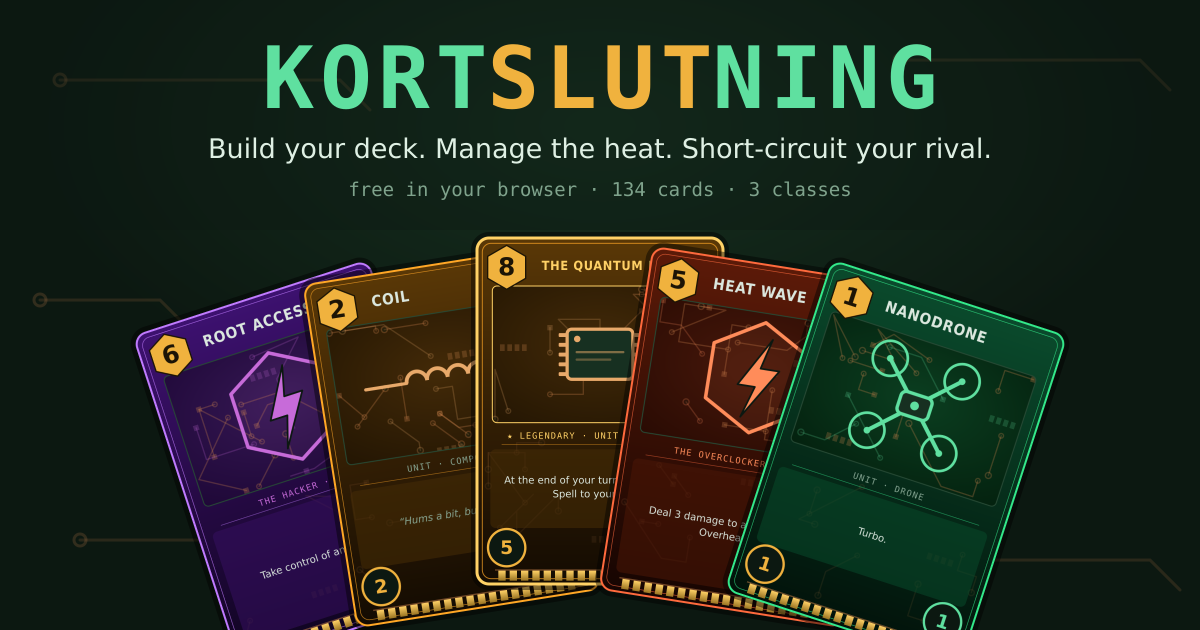
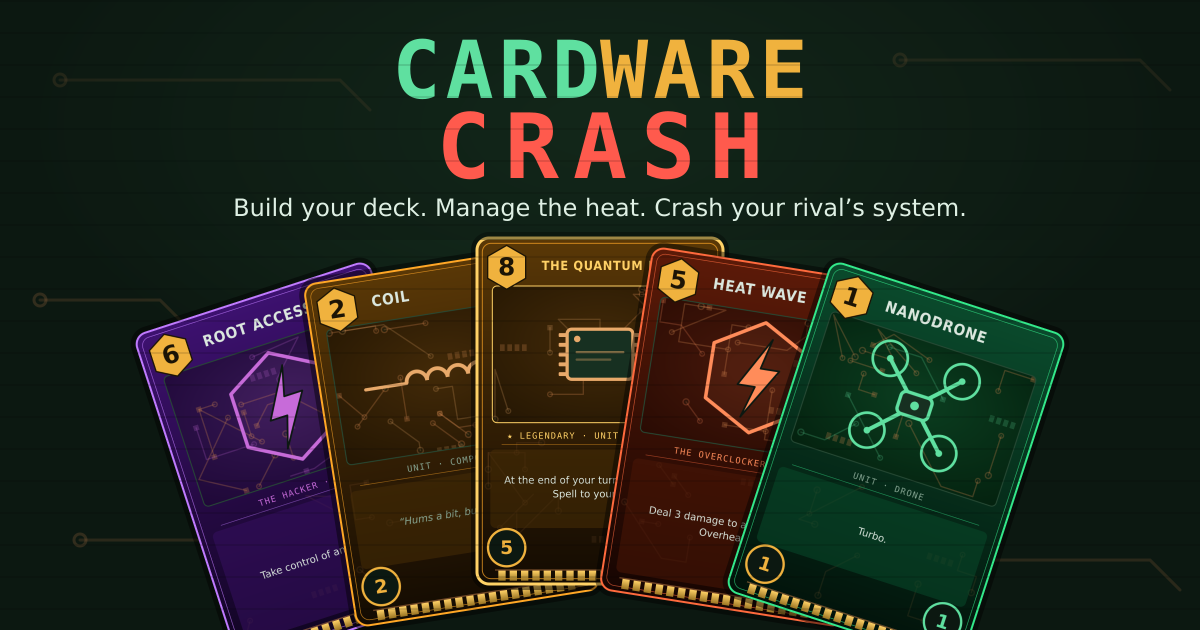
Rebrand til Cardware Crash + juicier splash screen
- Nyt navn overalt: landing, menu, loader, kamplog, OG-billede, titel/meta
- Hero-titel: CARDWARE (grøn/rav) over CRASH (rød) med RGB-glitch-kopier,
  flicker og redline-tema
- Splash-effekter: rullende scanlines + lys-sweep, løbende farvede gnister der
  spawner over hero, gnistregn når man rører titlen
- Alt slås fra ved prefers-reduced-motion
- OG-billede opdateret med ny titel og scanlines

Changed region(s): [[0.1542, 0.0603, 0.8325, 0.3921]]

diff --git a/docs/index.html b/docs/index.html
@@ -3,9 +3,9 @@
 <head>
 <meta charset="utf-8">
 <meta name="viewport" content="width=device-width, initial-scale=1, viewport-fit=cover">
-<title>⚡ KORTSLUTNING — electronics card game</title>
+<title>⚡ CARDWARE CRASH — electronics card game</title>
 <meta name="description" content="A free 2-player electronics deckbuilder. 134 cards, 3 classes, capacitor banks and overheat. Play in your browser — no install.">
-<meta property="og:title" content="KORTSLUTNING — electronics card game">
+<meta property="og:title" content="CARDWARE CRASH — electronics card game">
 <meta property="og:description" content="Build your deck. Manage the heat. Short-circuit your rival. Free in your browser.">
 <meta property="og:image" content="og.png">
 <meta property="og:type" content="website">
@@ -40,13 +40,38 @@ html,body{margin:0;height:100%;background:var(--bg0)}
 .heroind{position:relative;z-index:2;max-width:640px}
 .heroind::before{content:"";position:absolute;inset:-60px -80px;z-index:-1;
   background:radial-gradient(closest-side,rgba(12,24,17,.88),rgba(12,24,17,.45) 62%,transparent);border-radius:50%}
-.biglogo{font-family:var(--mono);font-weight:700;letter-spacing:.06em;color:var(--fos);
-  font-size:clamp(34px,9vw,74px);margin:0;line-height:1.05;
-  text-shadow:0 0 26px rgba(95,224,160,.5);animation:logoglow 4s ease-in-out infinite}
-.biglogo b{color:var(--amber);font-weight:700;text-shadow:0 0 26px rgba(240,178,62,.55)}
-@keyframes logoglow{0%,100%{opacity:1}6%{opacity:.55}9%{opacity:1}12%{opacity:.75}15%{opacity:1}
-  55%{text-shadow:0 0 40px rgba(95,224,160,.75)}}
-.pun{font-family:var(--mono);color:var(--dim);font-size:12.5px;margin:8px 0 0}
+.biglogo{font-family:var(--mono);font-weight:700;letter-spacing:.04em;margin:0;line-height:.94;
+  position:relative;display:flex;flex-direction:column;align-items:center;gap:2px}
+.biglogo .ln1,.biglogo .ln2{display:block;font-size:clamp(40px,11vw,92px);color:var(--fos);
+  text-shadow:0 0 22px rgba(95,224,160,.55),0 0 42px rgba(95,224,160,.25)}
+.biglogo .ln1 b{color:var(--amber);text-shadow:0 0 22px rgba(240,178,62,.6),0 0 42px rgba(240,178,62,.3)}
+.biglogo .ln2{color:#ff5a4d;text-shadow:0 0 22px rgba(255,90,77,.6),0 0 46px rgba(255,90,77,.35);
+  letter-spacing:.14em;font-size:clamp(46px,13vw,104px)}
+.biglogo{animation:logoflick 5s steps(1) infinite}
+@keyframes logoflick{0%,100%{opacity:1}2%{opacity:.6}2.5%{opacity:1}52%{opacity:1}52.4%{opacity:.4}52.9%{opacity:1}53.3%{opacity:.7}53.7%{opacity:1}}
+/* glitch: to farvede kopier der forskyder sig */
+.biglogo.glitch::before,.biglogo.glitch::after{content:attr(data-txt);position:absolute;inset:0;
+  display:flex;align-items:center;justify-content:center;font-size:clamp(40px,11vw,92px);
+  letter-spacing:.04em;opacity:.55;pointer-events:none;mix-blend-mode:screen}
+.biglogo.glitch::before{color:#26e0ff;animation:glx1 3.6s infinite steps(1)}
+.biglogo.glitch::after{color:#ff3bd0;animation:glx2 4.3s infinite steps(1)}
+@keyframes glx1{0%,100%{transform:translate(0,0);opacity:0}48%{opacity:0}49%{transform:translate(-3px,2px);opacity:.5}50%{transform:translate(3px,-1px)}51%{transform:translate(0,0);opacity:0}}
+@keyframes glx2{0%,100%{transform:translate(0,0);opacity:0}70%{opacity:0}71%{transform:translate(3px,-2px);opacity:.5}72%{transform:translate(-2px,2px)}73%{transform:translate(0,0);opacity:0}}
+/* scanlines over hele hero */
+.scanlines{position:absolute;inset:0;pointer-events:none;z-index:3;mix-blend-mode:overlay;opacity:.5;
+  background:repeating-linear-gradient(0deg,rgba(0,0,0,.32) 0 1px,transparent 1px 3px);
+  animation:scanroll 8s linear infinite}
+@keyframes scanroll{to{background-position:0 12px}}
+.scanlines::after{content:"";position:absolute;left:0;right:0;height:120px;
+  background:linear-gradient(180deg,transparent,rgba(95,224,160,.12),transparent);
+  animation:sweep 6s ease-in-out infinite}
+@keyframes sweep{0%{top:-120px}100%{top:100%}}
+/* gnister/sparks-lag (JS-genereret) */
+.sparklayer{position:absolute;inset:0;z-index:2;pointer-events:none;overflow:hidden}
+.spark{position:absolute;width:3px;height:3px;border-radius:50%;background:var(--fos);
+  box-shadow:0 0 8px 2px var(--fos);animation:sparkfly linear forwards}
+@keyframes sparkfly{0%{transform:translate(0,0) scale(1);opacity:1}100%{transform:translate(var(--sdx),var(--sdy)) scale(0);opacity:0}}
+.pun{font-family:var(--mono);color:var(--dim);font-size:12.5px;margin:14px 0 0}
 .tag{font-size:clamp(16px,3.4vw,21px);color:#eaf6ee;margin:18px 0 6px;font-weight:600}
 .sub{font-family:var(--mono);color:var(--dim);font-size:13px;margin-bottom:26px}
 .playbtn{display:inline-block;font-family:var(--mono);font-weight:700;font-size:clamp(18px,4vw,24px);
@@ -88,6 +113,8 @@ footer{padding:30px 20px 46px;text-align:center;color:var(--dim);font-size:12.5p
 @media (prefers-reduced-motion:reduce){
   .flyv{animation:none;opacity:.85;transform:translate3d(var(--sx,0px),var(--sy,0px),0) rotateZ(var(--rz,0deg)) scale(.9)}
   .biglogo,.playbtn,.scrollhint{animation:none}
+  .biglogo.glitch::before,.biglogo.glitch::after{display:none}
+  .scanlines,.sparklayer{display:none}
   #landing{transition:none}
 }
 @media (max-width:520px){ .flyv{width:82px;margin-left:-41px} .fan img{width:118px;margin:0 -28px} }
@@ -109,13 +136,17 @@ footer{padding:30px 20px 46px;text-align:center;color:var(--dim);font-size:12.5p
       <img class="flyv" src="cards/u_datamide.svg" alt="" loading="lazy" style="--tx:20vw;--ty:-48vh;--rz:14deg;--du:5.4s;--dl:4.05s;--sx:12vw;--sy:-17vh">
       <img class="flyv" src="cards/l_moderkort.svg" alt="" loading="lazy" style="--tx:53vw;--ty:-39vh;--rz:-12deg;--du:5.9s;--dl:4.50s;--sx:24vw;--sy:-11vh">
       <img class="flyv" src="cards/n_mainframe.svg" alt="" loading="lazy" style="--tx:79vw;--ty:-16vh;--rz:-5deg;--du:6.4s;--dl:4.95s;--sx:30vw;--sy:-2vh"></div>
+    <div class="sparklayer" id="sparklayer"></div>
     <div class="heroind">
-      <h1 class="biglogo">KORT<b>SLUT</b>NING</h1>
-      <p class="pun">// danish for "short circuit" — and a pun on "kort" (card)</p>
-      <p class="tag">Build your deck. Manage the heat. Short-circuit your rival.</p>
+      <h1 class="biglogo glitch" data-txt="CARDWARE CRASH">
+        <span class="ln1">CARD<b>WARE</b></span><span class="ln2">CRASH</span>
+      </h1>
+      <p class="pun">// where your deck meets the redline</p>
+      <p class="tag">Build your deck. Manage the heat. Crash your rival's system.</p>
       <p class="sub">Free in your browser · 134 cards · 3 classes · no install</p>
       <button class="playbtn" onclick="startSpil()">⚡ PLAY NOW</button>
     </div>
+    <div class="scanlines"></div>
     <div class="scrollhint">▼</div>
   </div>
   <section>
@@ -162,7 +193,7 @@ footer{padding:30px 20px 46px;text-align:center;color:var(--dim);font-size:12.5p
       online multiplayer lives in the Claude artifact edition
     </div>
   </section>
-  <footer>KORTSLUTNING · solo vs bot · local 2-player · interactive tutorial · works offline-ish once loaded</footer>
+  <footer>CARDWARE CRASH · solo vs bot · local 2-player · interactive tutorial · works offline-ish once loaded</footer>
 </div>
 <script>
 (function(){
@@ -175,6 +206,36 @@ footer{padding:30px 20px 46px;text-align:center;color:var(--dim);font-size:12.5p
     setTimeout(function(){ l.remove(); },650);
     try{ history.replaceState(null,'','?play'); }catch(e){}
   };
+  var reduce = window.matchMedia && window.matchMedia('(prefers-reduced-motion: reduce)').matches;
+  var layer = document.getElementById('sparklayer');
+  var cols = ['#5fe0a0','#f0b23e','#26e0ff','#ff5a4d'];
+  function burst(x,y,n){
+    if(!layer) return;
+    for(var i=0;i<n;i++){
+      var s=document.createElement('i'); s.className='spark';
+      var a=Math.random()*Math.PI*2, d=20+Math.random()*70;
+      var c=cols[(Math.random()*cols.length)|0];
+      s.style.left=x+'px'; s.style.top=y+'px';
+      s.style.background=c; s.style.boxShadow='0 0 8px 2px '+c;
+      s.style.setProperty('--sdx',(Math.cos(a)*d).toFixed(0)+'px');
+      s.style.setProperty('--sdy',(Math.sin(a)*d).toFixed(0)+'px');
+      s.style.animationDuration=(0.5+Math.random()*0.5).toFixed(2)+'s';
+      layer.appendChild(s);
+      setTimeout((function(el){return function(){el.remove();};})(s),1000);
+    }
+  }
+  if(!reduce && layer){
+    setInterval(function(){
+      if(document.hidden || l.classList.contains('bye')) return;
+      var r=layer.getBoundingClientRect();
+      burst(Math.random()*r.width, r.height*(0.15+Math.random()*0.5), 3+((Math.random()*4)|0));
+    },520);
+    var logo=document.querySelector('.biglogo');
+    if(logo) logo.addEventListener('pointerenter',function(e){
+      var r=layer.getBoundingClientRect();
+      burst(e.clientX-r.left, e.clientY-r.top, 14);
+    });
+  }
 })();
 </script>
 <script src="storage-shim.js"></script>

diff --git a/web/index.html b/web/index.html
@@ -3,9 +3,9 @@
 <head>
 <meta charset="utf-8">
 <meta name="viewport" content="width=device-width, initial-scale=1, viewport-fit=cover">
-<title>⚡ KORTSLUTNING — electronics card game</title>
+<title>⚡ CARDWARE CRASH — electronics card game</title>
 <meta name="description" content="A free 2-player electronics deckbuilder. 134 cards, 3 classes, capacitor banks and overheat. Play in your browser — no install.">
-<meta property="og:title" content="KORTSLUTNING — electronics card game">
+<meta property="og:title" content="CARDWARE CRASH — electronics card game">
 <meta property="og:description" content="Build your deck. Manage the heat. Short-circuit your rival. Free in your browser.">
 <meta property="og:image" content="og.png">
 <meta property="og:type" content="website">
@@ -40,13 +40,38 @@ html,body{margin:0;height:100%;background:var(--bg0)}
 .heroind{position:relative;z-index:2;max-width:640px}
 .heroind::before{content:"";position:absolute;inset:-60px -80px;z-index:-1;
   background:radial-gradient(closest-side,rgba(12,24,17,.88),rgba(12,24,17,.45) 62%,transparent);border-radius:50%}
-.biglogo{font-family:var(--mono);font-weight:700;letter-spacing:.06em;color:var(--fos);
-  font-size:clamp(34px,9vw,74px);margin:0;line-height:1.05;
-  text-shadow:0 0 26px rgba(95,224,160,.5);animation:logoglow 4s ease-in-out infinite}
-.biglogo b{color:var(--amber);font-weight:700;text-shadow:0 0 26px rgba(240,178,62,.55)}
-@keyframes logoglow{0%,100%{opacity:1}6%{opacity:.55}9%{opacity:1}12%{opacity:.75}15%{opacity:1}
-  55%{text-shadow:0 0 40px rgba(95,224,160,.75)}}
-.pun{font-family:var(--mono);color:var(--dim);font-size:12.5px;margin:8px 0 0}
+.biglogo{font-family:var(--mono);font-weight:700;letter-spacing:.04em;margin:0;line-height:.94;
+  position:relative;display:flex;flex-direction:column;align-items:center;gap:2px}
+.biglogo .ln1,.biglogo .ln2{display:block;font-size:clamp(40px,11vw,92px);color:var(--fos);
+  text-shadow:0 0 22px rgba(95,224,160,.55),0 0 42px rgba(95,224,160,.25)}
+.biglogo .ln1 b{color:var(--amber);text-shadow:0 0 22px rgba(240,178,62,.6),0 0 42px rgba(240,178,62,.3)}
+.biglogo .ln2{color:#ff5a4d;text-shadow:0 0 22px rgba(255,90,77,.6),0 0 46px rgba(255,90,77,.35);
+  letter-spacing:.14em;font-size:clamp(46px,13vw,104px)}
+.biglogo{animation:logoflick 5s steps(1) infinite}
+@keyframes logoflick{0%,100%{opacity:1}2%{opacity:.6}2.5%{opacity:1}52%{opacity:1}52.4%{opacity:.4}52.9%{opacity:1}53.3%{opacity:.7}53.7%{opacity:1}}
+/* glitch: to farvede kopier der forskyder sig */
+.biglogo.glitch::before,.biglogo.glitch::after{content:attr(data-txt);position:absolute;inset:0;
+  display:flex;align-items:center;justify-content:center;font-size:clamp(40px,11vw,92px);
+  letter-spacing:.04em;opacity:.55;pointer-events:none;mix-blend-mode:screen}
+.biglogo.glitch::before{color:#26e0ff;animation:glx1 3.6s infinite steps(1)}
+.biglogo.glitch::after{color:#ff3bd0;animation:glx2 4.3s infinite steps(1)}
+@keyframes glx1{0%,100%{transform:translate(0,0);opacity:0}48%{opacity:0}49%{transform:translate(-3px,2px);opacity:.5}50%{transform:translate(3px,-1px)}51%{transform:translate(0,0);opacity:0}}
+@keyframes glx2{0%,100%{transform:translate(0,0);opacity:0}70%{opacity:0}71%{transform:translate(3px,-2px);opacity:.5}72%{transform:translate(-2px,2px)}73%{transform:translate(0,0);opacity:0}}
+/* scanlines over hele hero */
+.scanlines{position:absolute;inset:0;pointer-events:none;z-index:3;mix-blend-mode:overlay;opacity:.5;
+  background:repeating-linear-gradient(0deg,rgba(0,0,0,.32) 0 1px,transparent 1px 3px);
+  animation:scanroll 8s linear infinite}
+@keyframes scanroll{to{background-position:0 12px}}
+.scanlines::after{content:"";position:absolute;left:0;right:0;height:120px;
+  background:linear-gradient(180deg,transparent,rgba(95,224,160,.12),transparent);
+  animation:sweep 6s ease-in-out infinite}
+@keyframes sweep{0%{top:-120px}100%{top:100%}}
+/* gnister/sparks-lag (JS-genereret) */
+.sparklayer{position:absolute;inset:0;z-index:2;pointer-events:none;overflow:hidden}
+.spark{position:absolute;width:3px;height:3px;border-radius:50%;background:var(--fos);
+  box-shadow:0 0 8px 2px var(--fos);animation:sparkfly linear forwards}
+@keyframes sparkfly{0%{transform:translate(0,0) scale(1);opacity:1}100%{transform:translate(var(--sdx),var(--sdy)) scale(0);opacity:0}}
+.pun{font-family:var(--mono);color:var(--dim);font-size:12.5px;margin:14px 0 0}
 .tag{font-size:clamp(16px,3.4vw,21px);color:#eaf6ee;margin:18px 0 6px;font-weight:600}
 .sub{font-family:var(--mono);color:var(--dim);font-size:13px;margin-bottom:26px}
 .playbtn{display:inline-block;font-family:var(--mono);font-weight:700;font-size:clamp(18px,4vw,24px);
@@ -88,6 +113,8 @@ footer{padding:30px 20px 46px;text-align:center;color:var(--dim);font-size:12.5p
 @media (prefers-reduced-motion:reduce){
   .flyv{animation:none;opacity:.85;transform:translate3d(var(--sx,0px),var(--sy,0px),0) rotateZ(var(--rz,0deg)) scale(.9)}
   .biglogo,.playbtn,.scrollhint{animation:none}
+  .biglogo.glitch::before,.biglogo.glitch::after{display:none}
+  .scanlines,.sparklayer{display:none}
   #landing{transition:none}
 }
 @media (max-width:520px){ .flyv{width:82px;margin-left:-41px} .fan img{width:118px;margin:0 -28px} }
@@ -98,13 +125,17 @@ footer{padding:30px 20px 46px;text-align:center;color:var(--dim);font-size:12.5p
 <div id="landing">
   <div class="hero">
     <div class="flyfelt"><!--SPLASH--></div>
+    <div class="sparklayer" id="sparklayer"></div>
     <div class="heroind">
-      <h1 class="biglogo">KORT<b>SLUT</b>NING</h1>
-      <p class="pun">// danish for "short circuit" — and a pun on "kort" (card)</p>
-      <p class="tag">Build your deck. Manage the heat. Short-circuit your rival.</p>
+      <h1 class="biglogo glitch" data-txt="CARDWARE CRASH">
+        <span class="ln1">CARD<b>WARE</b></span><span class="ln2">CRASH</span>
+      </h1>
+      <p class="pun">// where your deck meets the redline</p>
+      <p class="tag">Build your deck. Manage the heat. Crash your rival's system.</p>
       <p class="sub">Free in your browser · 134 cards · 3 classes · no install</p>
       <button class="playbtn" onclick="startSpil()">⚡ PLAY NOW</button>
     </div>
+    <div class="scanlines"></div>
     <div class="scrollhint">▼</div>
   </div>
   <section>
@@ -147,7 +178,7 @@ footer{padding:30px 20px 46px;text-align:center;color:var(--dim);font-size:12.5p
       online multiplayer lives in the Claude artifact edition
     </div>
   </section>
-  <footer>KORTSLUTNING · solo vs bot · local 2-player · interactive tutorial · works offline-ish once loaded</footer>
+  <footer>CARDWARE CRASH · solo vs bot · local 2-player · interactive tutorial · works offline-ish once loaded</footer>
 </div>
 <script>
 (function(){
@@ -160,6 +191,36 @@ footer{padding:30px 20px 46px;text-align:center;color:var(--dim);font-size:12.5p
     setTimeout(function(){ l.remove(); },650);
     try{ history.replaceState(null,'','?play'); }catch(e){}
   };
+  var reduce = window.matchMedia && window.matchMedia('(prefers-reduced-motion: reduce)').matches;
+  var layer = document.getElementById('sparklayer');
+  var cols = ['#5fe0a0','#f0b23e','#26e0ff','#ff5a4d'];
+  function burst(x,y,n){
+    if(!layer) return;
+    for(var i=0;i<n;i++){
+      var s=document.createElement('i'); s.className='spark';
+      var a=Math.random()*Math.PI*2, d=20+Math.random()*70;
+      var c=cols[(Math.random()*cols.length)|0];
+      s.style.left=x+'px'; s.style.top=y+'px';
+      s.style.background=c; s.style.boxShadow='0 0 8px 2px '+c;
+      s.style.setProperty('--sdx',(Math.cos(a)*d).toFixed(0)+'px');
+      s.style.setProperty('--sdy',(Math.sin(a)*d).toFixed(0)+'px');
+      s.style.animationDuration=(0.5+Math.random()*0.5).toFixed(2)+'s';
+      layer.appendChild(s);
+      setTimeout((function(el){return function(){el.remove();};})(s),1000);
+    }
+  }
+  if(!reduce && layer){
+    setInterval(function(){
+      if(document.hidden || l.classList.contains('bye')) return;
+      var r=layer.getBoundingClientRect();
+      burst(Math.random()*r.width, r.height*(0.15+Math.random()*0.5), 3+((Math.random()*4)|0));
+    },520);
+    var logo=document.querySelector('.biglogo');
+    if(logo) logo.addEventListener('pointerenter',function(e){
+      var r=layer.getBoundingClientRect();
+      burst(e.clientX-r.left, e.clientY-r.top, 14);
+    });
+  }
 })();
 </script>
 <script src="storage-shim.js"></script>

diff --git a/kortslutning.jsx b/kortslutning.jsx
@@ -688,7 +688,7 @@ function mkState(cfg){
     turn:0, active:starter, n:1, last:null, log:[], fx:[], fxk:0, rematch:[false,false],
     players:[ mkPlayer(cfg.names[0],cfg.cids[0],cfg.decks[0],cfg.classes&&cfg.classes[0]),
               mkPlayer(cfg.names[1],cfg.cids[1],cfg.decks[1],cfg.classes&&cfg.classes[1]) ] };
-  log(g,"⚡ KORTSLUTNING — "+g.players[0].name+" vs "+g.players[1].name+".");
+  log(g,"⚡ CARDWARE CRASH — "+g.players[0].name+" vs "+g.players[1].name+".");
   log(g,"🎲 "+g.players[starter].name+" goes first.");
   for(let i=0;i<3;i++){ draw(g,starter,1); }
   for(let i=0;i<4;i++){ draw(g,1-starter,1); }
@@ -2335,14 +2335,14 @@ export default function App(){
 
   let indhold=null;
   if(skaerm==="indlaeser"){
-    indhold=<div className="centrer"><div className="logo">KORT<b>SLUTNING</b></div><div className="ulinie">booting…</div></div>;
+    indhold=<div className="centrer"><div className="logo">CARD<b>WARE</b> CRASH</div><div className="ulinie">booting…</div></div>;
   }
   else if(skaerm==="menu"){
     indhold=(
       <div className="pane">
         <div style={{textAlign:"center",marginTop:14}}>
-          <div className="logo">KORT<b>SLUTNING</b></div>
-          <div className="ulinie">// 2-player electronics card game · 100 cards · class: The Technician</div>
+          <div className="logo">CARD<b>WARE</b> CRASH</div>
+          <div className="ulinie">// 2-player electronics card game · 134 cards · 3 classes</div>
         </div>
         <div className="etiket">Your name</div>
         <input value={navn} maxLength={16} onChange={e=>gemNavn(e.target.value)}/>